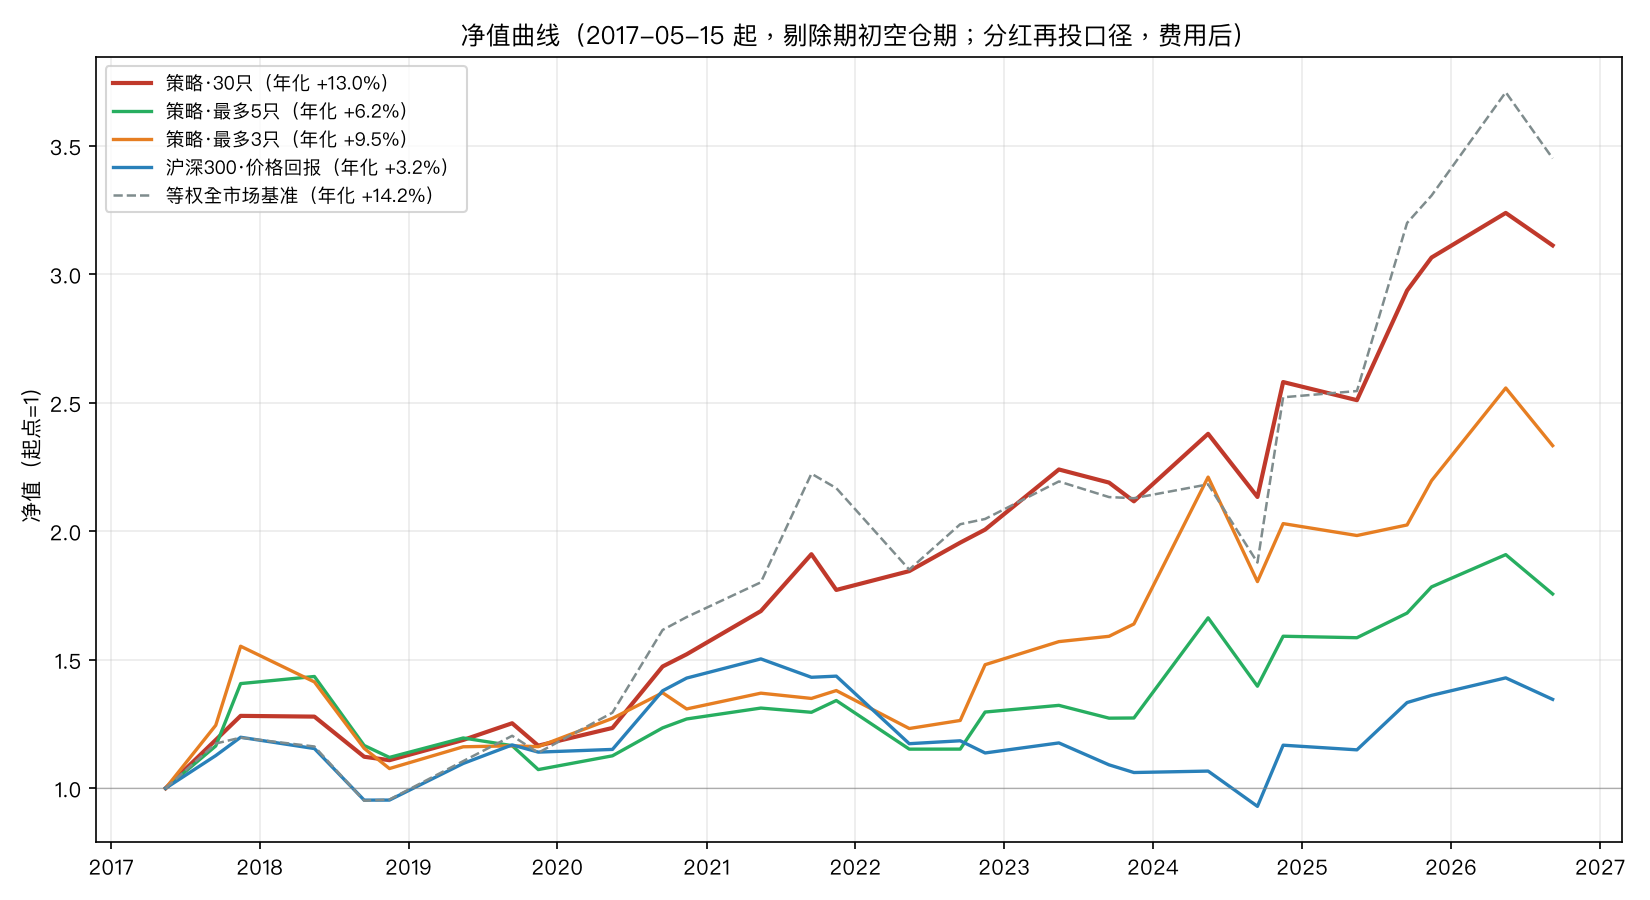
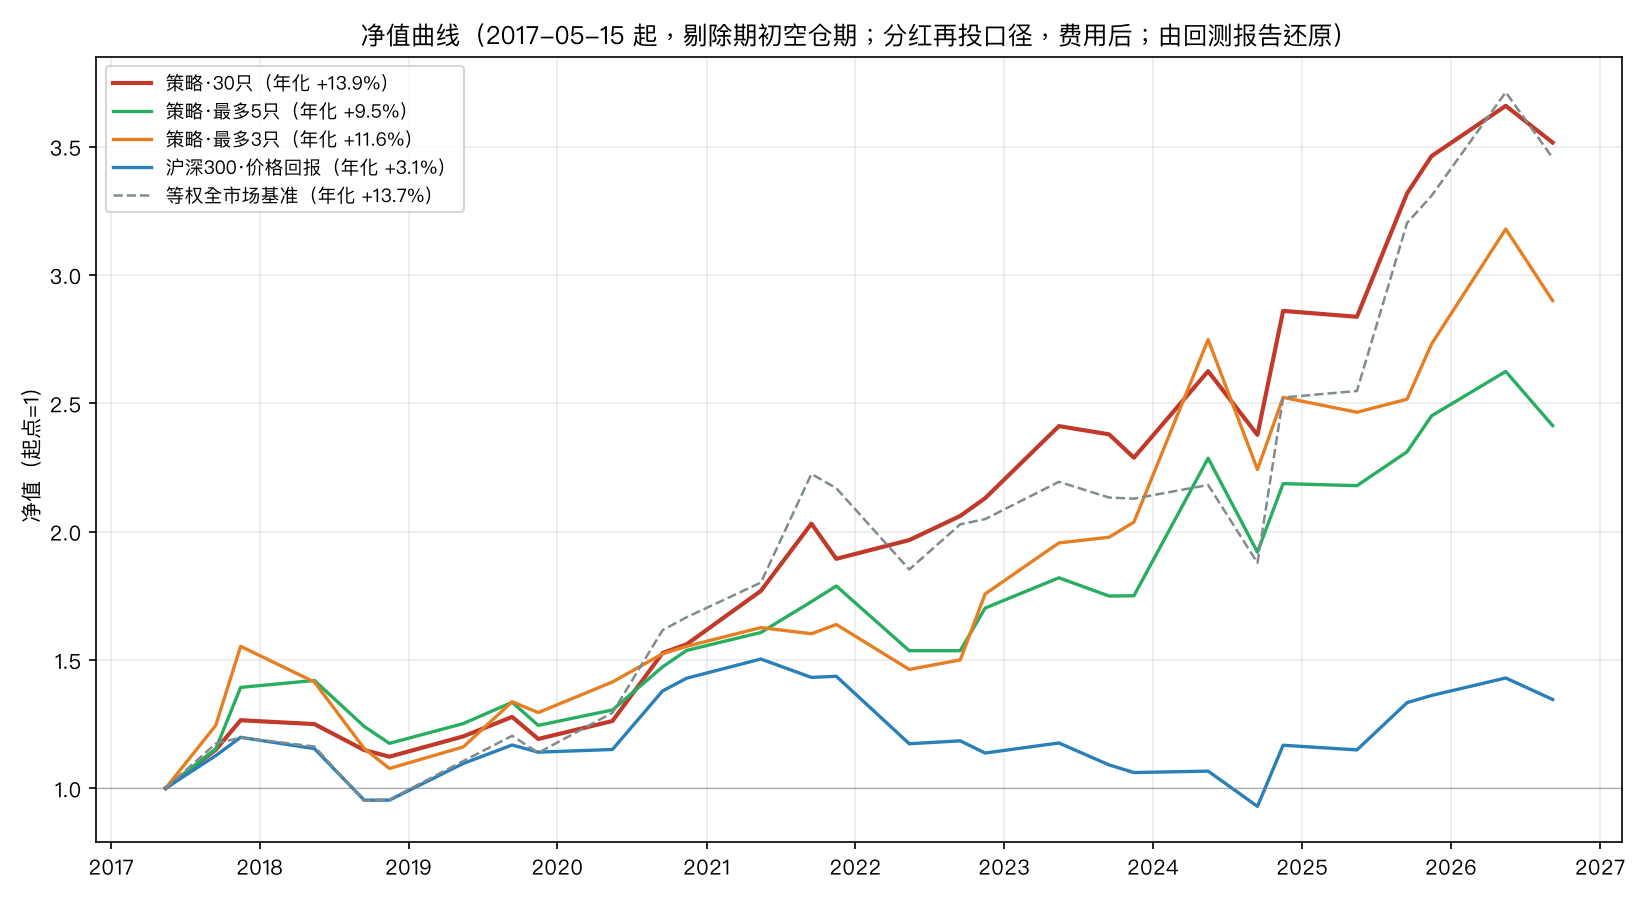
perf(backtest): 筛选结果进程内缓存 + 净值曲线改走报告还原（40min → 8s）
- engine.screen_at 按 (asof, with_valuation) 缓存 L1→L5 结果，返回副本防污染。
  Top30/Top5/Top3 筛选过程完全相同，缓存后三档只筛一遍。
- regen_nav_curve 新增 --dump-all：单进程跑完 4 档共享缓存（也避免并行抢 CPU 被回收）。
- 净值曲线改用已有的 --from-reports 路径：直接从三份回测报告还原，
  实测 7.9 秒（原 4 次回测约 40 分钟且常被回收）。报告已是统一口径，曲线不再失真。

diff --git a/tests/regen_nav_curve.py b/tests/regen_nav_curve.py
@@ -57,9 +57,8 @@ SPECS = {
 }
 
 
-def dump(key: str) -> None:
+def _run_and_save(store, cfg, key: str) -> None:
     spec = SPECS[key]
-    store, cfg = Store(DB), load_config()
     r = run_tier(store, cfg, **spec)
     if "error" in r:
         print(f"[error] {key}: {r['error']}")
@@ -73,7 +72,28 @@ def dump(key: str) -> None:
         "effective_start": str(r["effective_start"]),
     }
     (CACHE / f"meta_{key}.json").write_text(json.dumps(meta, ensure_ascii=False), encoding="utf-8")
-    print(f"[dump] {key} 完成：年化 {meta['cagr']:+.1%}，基准 {meta['bench_cagr']:+.1%}，{len(nav)} 期")
+    print(f"[dump] {key} 完成：年化 {meta['cagr']:+.1%}，基准 {meta['bench_cagr']:+.1%}，{len(nav)} 期",
+          flush=True)
+
+
+def dump(key: str) -> None:
+    store, cfg = Store(DB), load_config()
+    _run_and_save(store, cfg, key)
+
+
+def dump_all() -> None:
+    """单进程跑完 4 档：共享 engine 的筛选缓存（三档筛选只做一遍）。
+
+    比 4 个独立进程快约 3 倍，也避免并行抢 CPU 被回收。
+    """
+    import time as _t
+    from vi_system.backtest import engine as _eng
+    store, cfg = Store(DB), load_config()
+    t0 = _t.time()
+    for key in ["30", "5", "3", "equal"]:
+        _run_and_save(store, cfg, key)
+        print(f"  [进度] 累计 {_t.time()-t0:.0f}s，筛选缓存 {len(_eng._SCREEN_CACHE)} 期", flush=True)
+    print(f"[dump-all] 全部完成，耗时 {_t.time()-t0:.0f}s", flush=True)
 
 
 def plot() -> None:
@@ -234,6 +254,8 @@ if __name__ == "__main__":
         plot()
     elif "--from-reports" in sys.argv:
         plot_from_reports()
+    elif "--dump-all" in sys.argv:
+        dump_all()
     elif "--dump" in sys.argv:
         dump(sys.argv[sys.argv.index("--dump") + 1])
     else:

diff --git a/vi_system/backtest/engine.py b/vi_system/backtest/engine.py
@@ -36,8 +36,26 @@ _PANEL_COLS = ("code", "name", "industry", "rank", "value_z",
 _REJ_COLS = ("code", "name", "industry", "rule", "rule_desc", "value", "threshold")
 
 
+# 同一进程内按 (asof, with_valuation) 缓存 L1→L5 筛选结果。
+# 动机：Top30/Top5/Top3 三档的筛选过程完全一样，只有组组合那步不同。
+# 缓存后三档合计只需筛一遍，净值曲线重生成从 ~40 分钟降到一遍的时间。
+# 返回副本，避免上层就地修改污染缓存。
+_SCREEN_CACHE: dict = {}
+
+
+def clear_screen_cache() -> None:
+    """换库/换配置时调用，避免拿到旧宇宙的缓存。"""
+    _SCREEN_CACHE.clear()
+
+
 def screen_at(store, asof, cfg: Config, with_valuation: bool = False):
     """在 asof 时点跑完 L1→L5，返回 (scored_or_valued, rejected, universe)。"""
+    key = (str(asof), bool(with_valuation))
+    hit = _SCREEN_CACHE.get(key)
+    if hit is not None:
+        scored, rejected, uni = hit
+        return (scored.copy() if scored is not None and not scored.empty else scored,
+                rejected, uni)
     uni = _universe.build_universe(store, asof, cfg)
     if uni.empty:
         return pd.DataFrame(), pd.DataFrame(), uni
@@ -50,6 +68,7 @@ def screen_at(store, asof, cfg: Config, with_valuation: bool = False):
     scored = _factors.score_factors(passed, cfg)
     if with_valuation:
         scored = _valuation.valuate(scored, cfg)
+    _SCREEN_CACHE[key] = (scored, rejected, uni)
     return scored, rejected, uni
 
 
